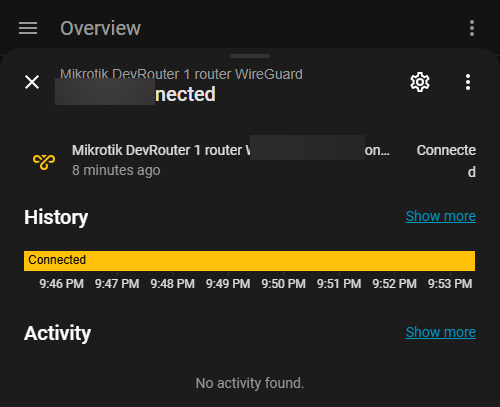
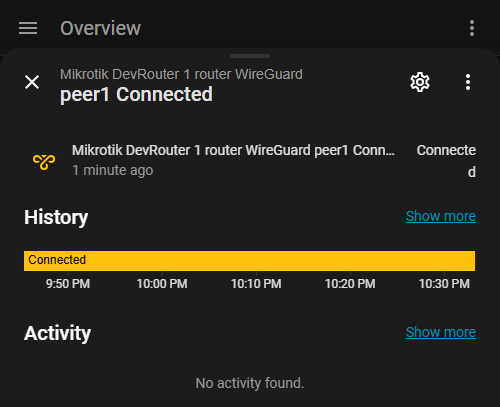
Update README actions section with examples, fix WoL interface requirement
- Rename Services to Actions (Services) to match HA 2024.8+ terminology
- Add WoL YAML service call and automation examples
- Mark WoL interface parameter as required (RouterOS requires it)
- Add API Test usage examples (raw query + coordinator data)
- Replace WireGuard screenshot with unmasked peer1 version

diff --git a/README.md b/README.md
@@ -103,10 +103,55 @@ Update RouterOS and RouterBoard firmware directly from Home Assistant.
 
 ![RouterOS Update](docs/assets/images/screenshots/update_routeros.png)
 
-### Services
+### Actions (Services)
 
-- **Wake-on-LAN** (`mikrotik_router.send_magic_packet`): send WoL magic packet through the router. Parameters: `mac` (required), `interface` (optional).
-- **API Test** (`mikrotik_router.api_test`): diagnostic service for raw RouterOS API queries or coordinator data inspection. Use in Developer Tools -> Services with "Return response" enabled. Parameters: `path` (required), `limit` (optional, default 10), `host` (optional), `coordinator_data` (optional).
+- **Wake-on-LAN** (`mikrotik_router.send_magic_packet`): send a WoL magic packet through the router to wake up a network device.
+
+  **Parameters:** `mac` (required), `interface` (required — the router interface to send the packet from, e.g. `bridge`).
+
+  ```yaml
+  action: mikrotik_router.send_magic_packet
+  data:
+    mac: "AA:BB:CC:DD:EE:FF"
+    interface: "bridge"
+  ```
+
+  **Example — automation:**
+
+  ```yaml
+  automation:
+    - alias: "Wake up server when I get home"
+      trigger:
+        - platform: zone
+          entity_id: person.me
+          zone: zone.home
+          event: enter
+      action:
+        - action: mikrotik_router.send_magic_packet
+          data:
+            mac: "AA:BB:CC:DD:EE:FF"
+            interface: "bridge"
+  ```
+
+- **API Test** (`mikrotik_router.api_test`): diagnostic action for raw RouterOS API queries or coordinator data inspection. Use in **Developer Tools -> Actions** with "Return response" enabled.
+
+  **Parameters:** `path` (required), `limit` (optional, default 10), `host` (optional), `coordinator_data` (optional).
+
+  ```yaml
+  # Query router interfaces
+  action: mikrotik_router.api_test
+  data:
+    path: "/interface"
+    limit: 20
+  ```
+
+  ```yaml
+  # Inspect coordinator's processed data
+  action: mikrotik_router.api_test
+  data:
+    path: "interface"
+    coordinator_data: true
+  ```
 
 ## Feature Availability
 